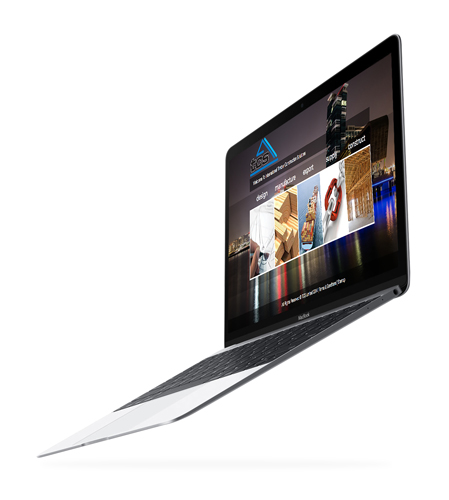
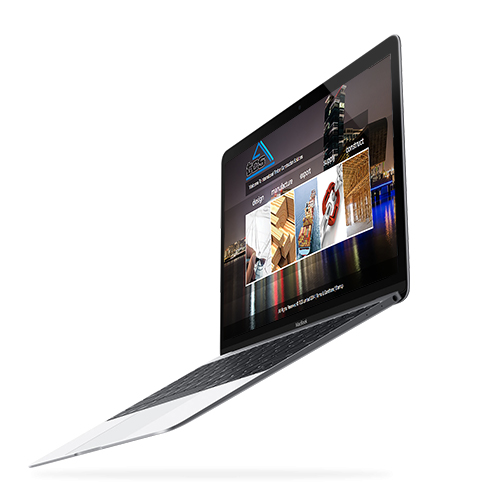
add slider and user-bg to the shool list html component, update tcs-homepage image to 500px X 500px, add tcs-design image, remove slider init code from tcs component ts file, update the initSlider method to call the slider method globally and update #slider img styles.

Changed region(s): [[0.0624, 0.06, 0.9354, 0.93]]

diff --git a/ng-src/src/app/components/work/school-list/school-list.component.html b/ng-src/src/app/components/work/school-list/school-list.component.html
@@ -16,35 +16,39 @@
   </div><!-- /.problem -->
 
   <!-- Work component - black -->
-  <div class="wrk-component col-sm-12 black">
-    <div class="col-sm-12 col-md-6 img-container text-center">
-      <img src="../../../assets/imgs/work/school-list/school-list.png" srcset="../../../assets/imgs/work/school-list/school-list.png 1x, ../../../assets/imgs/work/school-list/school-list@2x.png 2x, ../../../assets/imgs/work/school-list/school-list@3x.png 3x" alt="Warehouse Stationery School list management prototype.">
-    </div><!-- /.img-container -->
-
-    <div class="wrk-text col-sm-12 col-md-6 text-white">
-      <div class="wrk-title font-2-5 font-light">The Users</div>
-      <p class="mar-top-10">Lorem Ipsum is simply dummy text of the printing and typesetting industry. Lorem Ipsum has been the industry's standard dummy text ever since the 1500s, when an unknown printer took a galley of type and scrambled it to make a type specimen book. It has survived not only five centuries, but also the leap into electronic typesetting, remaining essentially unchanged.</p>
-      <span class="content-border border-white border-right"></span>
-    </div><!-- END: text container -->
-  </div><!-- END: Work component - black -->
+  <div class="wrk-component col-sm-12 users-bg parallax">
+    <span class="img-overlay">
+      <div class="wrk-text col-sm-12 col-md-6 text-white">
+        <div class="wrk-title font-2-5 font-light">The Users</div>
+        <p class="mar-top-10">Timber Construction Solutions often competes with businesses local and internationally for private and public building and housing project contracts in countries all around the world. The majority of the clients users are often from a corporate and/or government agency who use the website to gain insights into the company and aid in assessing their credibility and capabilities.</p>
+        <span class="content-border border-white border-right"></span>
+      </div><!-- END: text container -->
+    </span><!-- /.img-overlay -->
+  </div><!-- END: Work component - background image -->
 
   <!-- Work component -->
-  <div class="wrk-component col-sm-12">
-    <div class="wrk-text col-sm-12 col-md-6">
+  <div class="wrk-component col-sm-12 black">
+    <div class="wrk-text text-white col-sm-12 col-md-6">
       <div class="wrk-title font-2-5 font-light">Process</div>
       <p class="mar-top-10">Lorem Ipsum is simply dummy text of the printing and typesetting industry. Lorem Ipsum has been the industry's standard dummy text ever since the 1500s, when an unknown printer took a galley of type and scrambled it to make a type specimen book. It has survived not only five centuries, but also the leap into electronic typesetting, remaining essentially unchanged.</p>
-      <span class="content-border border-char border-right"></span>
+      <span class="content-border border-white border-right"></span>
     </div><!-- END: text-container -->
 
     <div class="col-sm-12 col-md-6 img-container text-center">
-      <img src="../../../assets/imgs/work/school-list/school-list.png" srcset="../../../assets/imgs/work/school-list/school-list.png 1x, ../../../assets/imgs/work/school-list/school-list@2x.png 2x, ../../../assets/imgs/work/school-list/school-list@3x.png 3x" alt="Warehouse Stationery School list management prototype.">
+      <img src="../../../assets/imgs/wireframes.jpg" srcset="../../../assets/imgs/wireframes.jpg 1x, ../../../assets/imgs/wireframes@2x.jpg 2x, ../../../assets/imgs/wireframes@3x.jpg 3x" alt="Website wireframes and prototyping.">
     </div><!-- /.img-container -->
   </div><!-- END: Work component -->
 
   <!-- Work component -->
   <div class="wrk-component col-sm-12">
     <div class="col-sm-12 col-md-6 img-container text-center">
-      <img src="../../../assets/imgs/work/school-list/school-list.png" srcset="../../../assets/imgs/work/school-list/school-list.png 1x, ../../../assets/imgs/work/school-list/school-list@2x.png 2x, ../../../assets/imgs/work/school-list/school-list@3x.png 3x" alt="Warehouse Stationery School list management prototype.">
+      <div id="slider">
+        <img src="../../../assets/imgs/work/tcs/tcs-homepage.jpg" srcset="../../../assets/imgs/work/tcs/tcs-homepage.jpg 1x, ../../../assets/imgs/work/tcs/tcs-homepage@2x.jpg 2x, ../../../assets/imgs/work/tcs/tcs-homepage@3x.jpg 3x" alt="Timber Construction Solutions website design.">
+        <img src="../../../assets/imgs/work/tcs/tcs-design.jpg" srcset="../../../assets/imgs/work/tcs/tcs-design.jpg 1x, ../../../assets/imgs/work/tcs/tcs-design@2x.jpg 2x, ../../../assets/imgs/work/tcs/tcs-design@3x.jpg 3x" alt="Timber Construction Solution Design process.">
+        <img src="../../../assets/imgs/work/tcs/tcs-homepage.jpg" srcset="../../../assets/imgs/work/tcs/tcs-homepage.jpg 1x, ../../../assets/imgs/work/tcs/tcs-homepage@2x.jpg 2x, ../../../assets/imgs/work/tcs/tcs-homepage@3x.jpg 3x" alt="Timber Construction Solutions website design.">
+        <img src="../../../assets/imgs/work/school-list/school-list.png" srcset="../../../assets/imgs/work/school-list/school-list.png 1x, ../../../assets/imgs/work/school-list/school-list@2x.png 2x, ../../../assets/imgs/work/school-list/school-list@3x.png 3x" alt="School list management prototype">
+        <img src="../../../assets/imgs/work/tcs/tcs-homepage.jpg" srcset="../../../assets/imgs/work/tcs/tcs-homepage.jpg 1x, ../../../assets/imgs/work/tcs/tcs-homepage@2x.jpg 2x, ../../../assets/imgs/work/tcs/tcs-homepage@3x.jpg 3x" alt="Timber Construction Solutions website design.">
+      </div><!-- /#silder -->
     </div><!-- /.img-container -->
 
     <div class="wrk-text col-sm-12 col-md-6">

diff --git a/ng-src/src/assets/scripts/main.js b/ng-src/src/assets/scripts/main.js
@@ -19,77 +19,86 @@
     INPUT:  ID of parent container of the images.
     OUTPUT: NULL
    --------------------------------------------- */
-var ele;
-var imgs;
-var imageWidth;
-var imageNumber;
-var currentImage = 0;
 
-function init(){
+function initSlider(eleId) {
 
-  ele = document.getElementById('slider');
-  imgs = ele.children;
-  imageNumber = imgs.length;
-  imageWidth = imgs[0].getBoundingClientRect().width; console.log(imageWidth);
-  // set ele width as the total height of all images in image slider.
-  ele.style.width = parseInt(imageWidth * imageNumber + imageWidth) + 'px';
-  slider(ele);
-}
+  var ele;
+  var par;
+  var imgs;
+  var imageWidth;
+  var imageNumber;
+  var currentImage = 0;
 
-function slider(e){
-  animate({
-    delay:200,
-    duration: 3000,
-    delta:function(p){return Math.max(0, -1 + 2 * p)},
-    step:function(delta){
-      e.style.left = '-' + parseInt(currentImage * imageWidth + delta * imageWidth) + 'px';
-    },
-    callback:function(){
-      currentImage++;
-      // if it doesn’t slide to the last image, keep sliding
-      if(currentImage < imageNumber-1){
-        slider(e);
+  function init(){
+
+    ele = document.getElementById(eleId);
+    imgs = ele.children;
+    imageNumber = imgs.length;
+    imageWidth = imgs[0].getBoundingClientRect().width;
+    // set ele width as the total height of all images in image slider.
+    ele.style.width = parseInt(imageWidth * imageNumber + imageWidth) + 'px';
+    slider(ele);
+  }
+
+  function slider(e){
+
+    animate({
+      delay:200,
+      duration: 5000,
+      delta:function(p){return Math.max(0, -1 + 2 * p)},
+      step:function(delta){
+        e.style.left = '-' + parseInt(currentImage * imageWidth + delta * imageWidth) + 'px';
+      },
+      callback:function(){
+        currentImage++;
+        // if it doesn’t slide to the last image, keep sliding
+        if(currentImage < imageNumber-1){
+          slider(e);
+        }
+        // if current image it’s the last one, it slides back to the first one
+        else{
+          var leftPosition = (imageNumber - 1) * imageWidth;
+          // after 2 seconds, call the goBack function to slide to the first image
+          setTimeout(function(){goBack(leftPosition)},2000);
+          setTimeout(function(){slider(e)}, 5000);
+        }
       }
-      // if current image it’s the last one, it slides back to the first one
+    });
+  }
+
+  function goBack(leftPosition){
+
+    currentImage = 0;
+    var id = setInterval(function(){
+      if(leftPosition >= 0){
+        ele.style.left = '-' + parseInt(leftPosition) + 'px';
+        leftPosition -= imageWidth / 10;
+      }
       else{
-        var leftPosition = (imageNumber - 1) * imageWidth;
-        // after 2 seconds, call the goBack function to slide to the first image
-        setTimeout(function(){goBack(leftPosition)},1000);
-        setTimeout(function(){slider(e)}, 1000);
+        clearInterval(id);
       }
-    }
-  });
+    }, 17);
+  }
+
+  function animate(opts){
+
+    var start = new Date;
+    var id = setInterval(function(){
+      var timePassed = new Date - start;
+      var progress = timePassed / opts.duration;
+      if(progress > 1){
+        progress = 1;
+      }
+      var delta = opts.delta(progress);
+      opts.step(delta);
+      if (progress == 1){
+        clearInterval(id);
+        opts.callback();
+      }
+    }, opts.dalay || 20);
+  }
+  window.onload = init;
 }
 
-function goBack(leftPosition){
-  currentImage = 0;
-  var id = setInterval(function(){
-    if(leftPosition >= 0){
-      ele.style.left = '-' + parseInt(leftPosition) + 'px';
-      leftPosition -= imageWidth / 10;
-    }
-    else{
-      clearInterval(id);
-    }
-  }, 17);
-}
-
-function animate(opts){
-  var start = new Date;
-  var id = setInterval(function(){
-    var timePassed = new Date - start;
-    var progress = timePassed / opts.duration;
-    if(progress > 1){
-      progress = 1;
-    }
-    var delta = opts.delta(progress);
-    opts.step(delta);
-    if (progress == 1){
-      clearInterval(id);
-      opts.callback();
-    }
-  }, opts.dalay || 20);
-}
-window.onload = init;
-
+initSlider("slider");
 /* =============== END: Slider Method ============ */

diff --git a/ng-src/src/app/components/work/tcs/tcs.component.html b/ng-src/src/app/components/work/tcs/tcs.component.html
@@ -56,12 +56,14 @@
       <span class="content-border border-char border-right"></span>
     </div><!-- END: text-container -->
 
-    <div class="col-sm-12 col-md-6 img-container text-center" id="slider">
-      <img src="../../../assets/imgs/work/tcs/tcs-homepage.jpg" srcset="../../../assets/imgs/work/tcs/tcs-homepage.jpg 1x, ../../../assets/imgs/work/tcs/tcs-homepage@2x.jpg 2x, ../../../assets/imgs/work/tcs/tcs-homepage@3x.jpg 3x" alt="Timber Construction Solutions website design.">
-      <img src="../../../assets/imgs/work/school-list/school-list.png" srcset="../../../assets/imgs/work/school-list/school-list.png 1x, ../../../assets/imgs/work/school-list/school-list@2x.png 2x, ../../../assets/imgs/work/school-list/school-list@3x.png 3x" alt="School list management prototype">
-      <img src="../../../assets/imgs/work/tcs/tcs-homepage.jpg" srcset="../../../assets/imgs/work/tcs/tcs-homepage.jpg 1x, ../../../assets/imgs/work/tcs/tcs-homepage@2x.jpg 2x, ../../../assets/imgs/work/tcs/tcs-homepage@3x.jpg 3x" alt="Timber Construction Solutions website design.">
-      <img src="../../../assets/imgs/work/school-list/school-list.png" srcset="../../../assets/imgs/work/school-list/school-list.png 1x, ../../../assets/imgs/work/school-list/school-list@2x.png 2x, ../../../assets/imgs/work/school-list/school-list@3x.png 3x" alt="School list management prototype">
-      <img src="../../../assets/imgs/work/tcs/tcs-homepage.jpg" srcset="../../../assets/imgs/work/tcs/tcs-homepage.jpg 1x, ../../../assets/imgs/work/tcs/tcs-homepage@2x.jpg 2x, ../../../assets/imgs/work/tcs/tcs-homepage@3x.jpg 3x" alt="Timber Construction Solutions website design.">
+    <div class="col-sm-12 col-md-6 img-container text-center">
+      <div id="slider">
+        <img src="../../../assets/imgs/work/tcs/tcs-homepage.jpg" srcset="../../../assets/imgs/work/tcs/tcs-homepage.jpg 1x, ../../../assets/imgs/work/tcs/tcs-homepage@2x.jpg 2x, ../../../assets/imgs/work/tcs/tcs-homepage@3x.jpg 3x" alt="Timber Construction Solutions website design.">
+        <img src="../../../assets/imgs/work/tcs/tcs-design.jpg" srcset="../../../assets/imgs/work/tcs/tcs-design.jpg 1x, ../../../assets/imgs/work/tcs/tcs-design@2x.jpg 2x, ../../../assets/imgs/work/tcs/tcs-design@3x.jpg 3x" alt="Timber Construction Solution Design process.">
+        <img src="../../../assets/imgs/work/tcs/tcs-homepage.jpg" srcset="../../../assets/imgs/work/tcs/tcs-homepage.jpg 1x, ../../../assets/imgs/work/tcs/tcs-homepage@2x.jpg 2x, ../../../assets/imgs/work/tcs/tcs-homepage@3x.jpg 3x" alt="Timber Construction Solutions website design.">
+        <img src="../../../assets/imgs/work/school-list/school-list.png" srcset="../../../assets/imgs/work/school-list/school-list.png 1x, ../../../assets/imgs/work/school-list/school-list@2x.png 2x, ../../../assets/imgs/work/school-list/school-list@3x.png 3x" alt="School list management prototype">
+        <img src="../../../assets/imgs/work/tcs/tcs-homepage.jpg" srcset="../../../assets/imgs/work/tcs/tcs-homepage.jpg 1x, ../../../assets/imgs/work/tcs/tcs-homepage@2x.jpg 2x, ../../../assets/imgs/work/tcs/tcs-homepage@3x.jpg 3x" alt="Timber Construction Solutions website design.">
+      </div><!-- /#silder -->
     </div><!-- /.img-container -->
   </div><!-- END: Work component -->
 

diff --git a/ng-src/src/app/components/work/tcs/tcs.component.ts b/ng-src/src/app/components/work/tcs/tcs.component.ts
@@ -1,6 +1,6 @@
 import { Component, OnInit } from '@angular/core';
-import '../../../../assets/scripts/main.js';
-declare var slider: any;
+
+// declare var initSlider: any;
 
 @Component({
   selector: 'app-tcs',
@@ -12,12 +12,10 @@ export class TcsComponent implements OnInit {
 
   constructor() {}
 
+
   ngOnInit(){
-
-    (function() {
-      new slider('slider');
-    })();
-
+    // initSlider('slider');
   }
+
 
 }

diff --git a/ng-src/src/styles.css b/ng-src/src/styles.css
@@ -427,10 +427,12 @@ opacity-4 {
     padding: 0;
   }
   #slider {
+    height: 100%;
     position: relative;
   }
-    .img-container > img {
+    .img-container > img, #slider > img {
       margin: 0;
+      padding: 0;
       height: 100%;
     }
 
